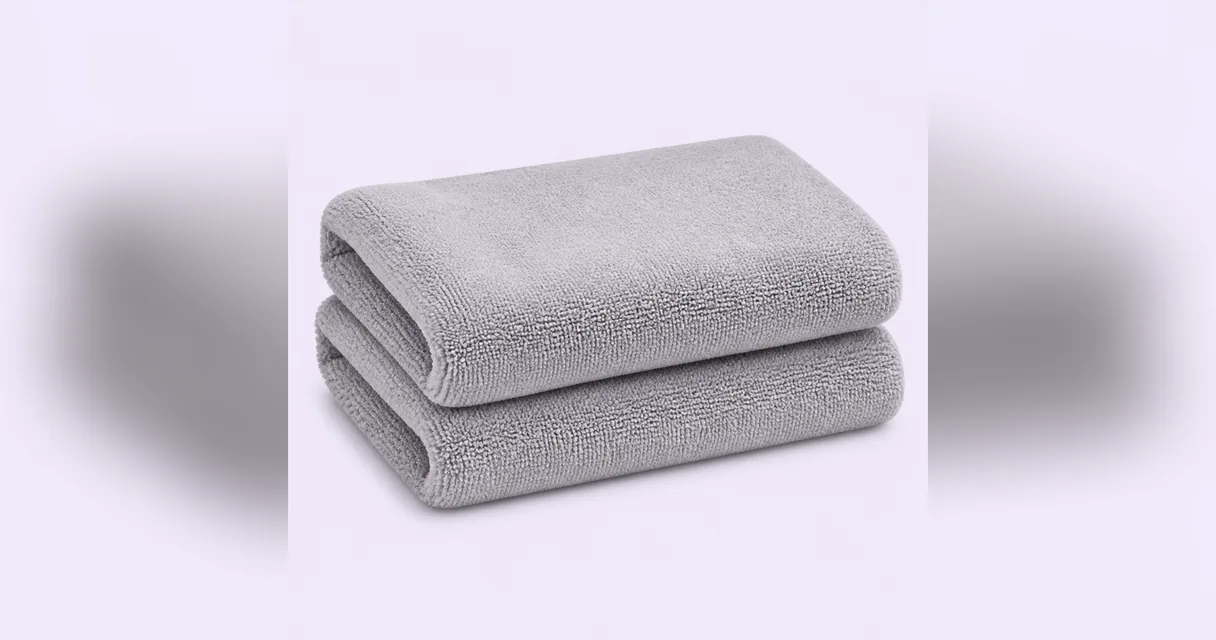
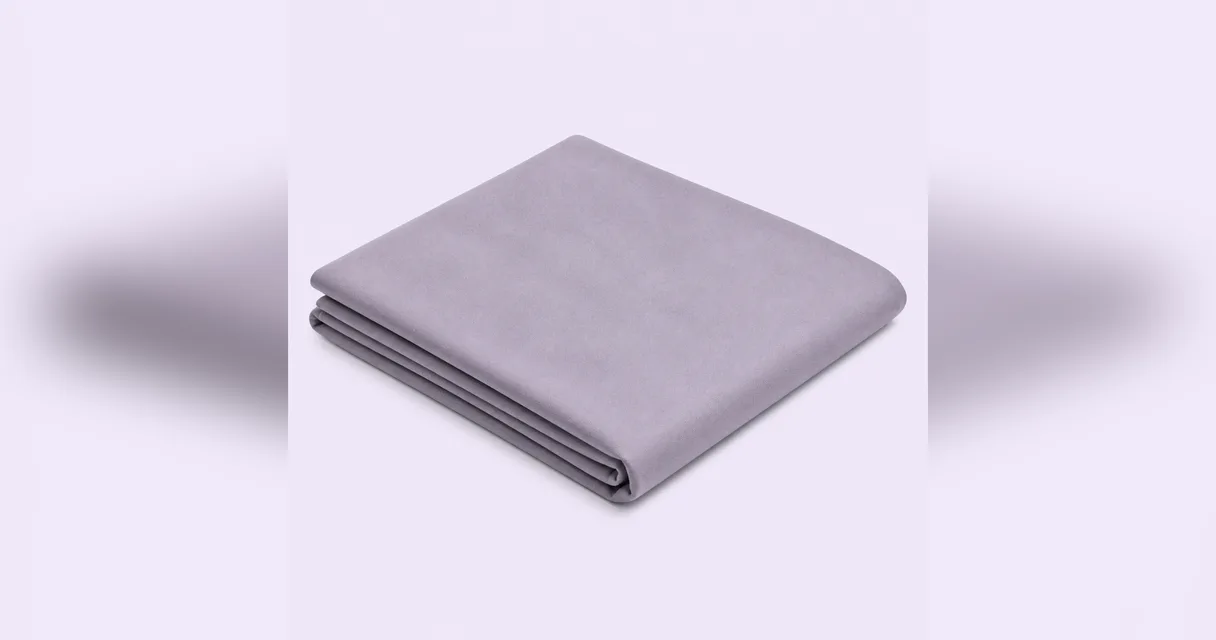
feat(personal-plan): towel-material question gets photo Bildkarten; approved Frottee + corrected Mikrofaser
Nick approved both 2026-08-26: frottee.webp (terry, new) and the flat
Mikrofaser replacing the turban-lookalike. The towel-material group
renders as a photo grid (Frottee/Mikrofaser new, T-Shirt and Haarturban
reuse approved shots); Kein Handtuch stays icon-only via the grid's
fallback. Live-verified, all four photos load.

Changed region(s): [[0.0312, 0.1875, 0.9688, 0.8438], [0.0312, 0.2812, 0.1875, 0.4375]]

diff --git a/src/components/personal-plan-refinement/refinement-options.tsx b/src/components/personal-plan-refinement/refinement-options.tsx
@@ -3,7 +3,11 @@
 import type { ReactNode } from "react"
 
 import { QuizOptionCard } from "@/components/quiz/quiz-option-card"
-import { ADDITIONAL_HEAT_TOOL_IMAGES, type ToolImage } from "@/components/quiz/tool-visuals"
+import {
+  ADDITIONAL_HEAT_TOOL_IMAGES,
+  TOWEL_MATERIAL_IMAGES,
+  type ToolImage,
+} from "@/components/quiz/tool-visuals"
 import type { IconName } from "@/components/ui/icon"
 import { FrequencySliderField } from "@/components/ui/frequency-slider-field"
 import type {
@@ -201,6 +205,9 @@ export const TOWEL_MATERIAL_OPTIONS = (
     value === "no_towel"
       ? "Kein Handtuch oder Tuch"
       : TOWEL_MATERIAL_LABELS[value as keyof typeof TOWEL_MATERIAL_LABELS],
+  // Photo Bildkarten for the four materials (Nick, 2026-08-26); „Kein
+  // Handtuch" stays icon-only and the grid falls back to the icon treatment.
+  image: value === "no_towel" ? undefined : TOWEL_MATERIAL_IMAGES[value],
   icon:
     value === "frottee"
       ? "towel-frottee"

diff --git a/src/components/quiz/tool-visuals.ts b/src/components/quiz/tool-visuals.ts
@@ -40,6 +40,14 @@ export const BRUSH_TYPE_DESCRIPTIONS: Record<string, string> = {
   fingers: "Du entwirrst dein Haar mit den Händen.",
 }
 
+/** Handtuch-Material (Stage-2-Refinement `towel_handling`) */
+export const TOWEL_MATERIAL_IMAGES: Record<string, ToolImage> = {
+  frottee: toolImage("frottee", "Frottee-Handtuch"),
+  mikrofaser: toolImage("microfiber_towel", "Mikrofaser-Handtuch"),
+  tshirt: toolImage("smooth_cotton_cloth", "Glattes Baumwolltuch / T-Shirt"),
+  turban_mikrofaser: toolImage("drying_wrap", "Haarturban aus Mikrofaser"),
+}
+
 /** Zusätzliche Hitze-Tools (Stage-2-Refinement `additional_heat_tools`) */
 export const ADDITIONAL_HEAT_TOOL_IMAGES: Record<string, ToolImage> = {
   dryer_brush: toolImage("dryer_brush", "Föhnbürste"),

diff --git a/src/components/personal-plan-refinement/refinement-question.tsx b/src/components/personal-plan-refinement/refinement-question.tsx
@@ -559,6 +559,7 @@ function renderQuestionBody({
               </h3>
               <RefinementOptions
                 options={TOWEL_MATERIAL_OPTIONS}
+                layout="grid"
                 value={towel.material}
                 onChange={(material) =>
                   onLocalAnswerChange(
